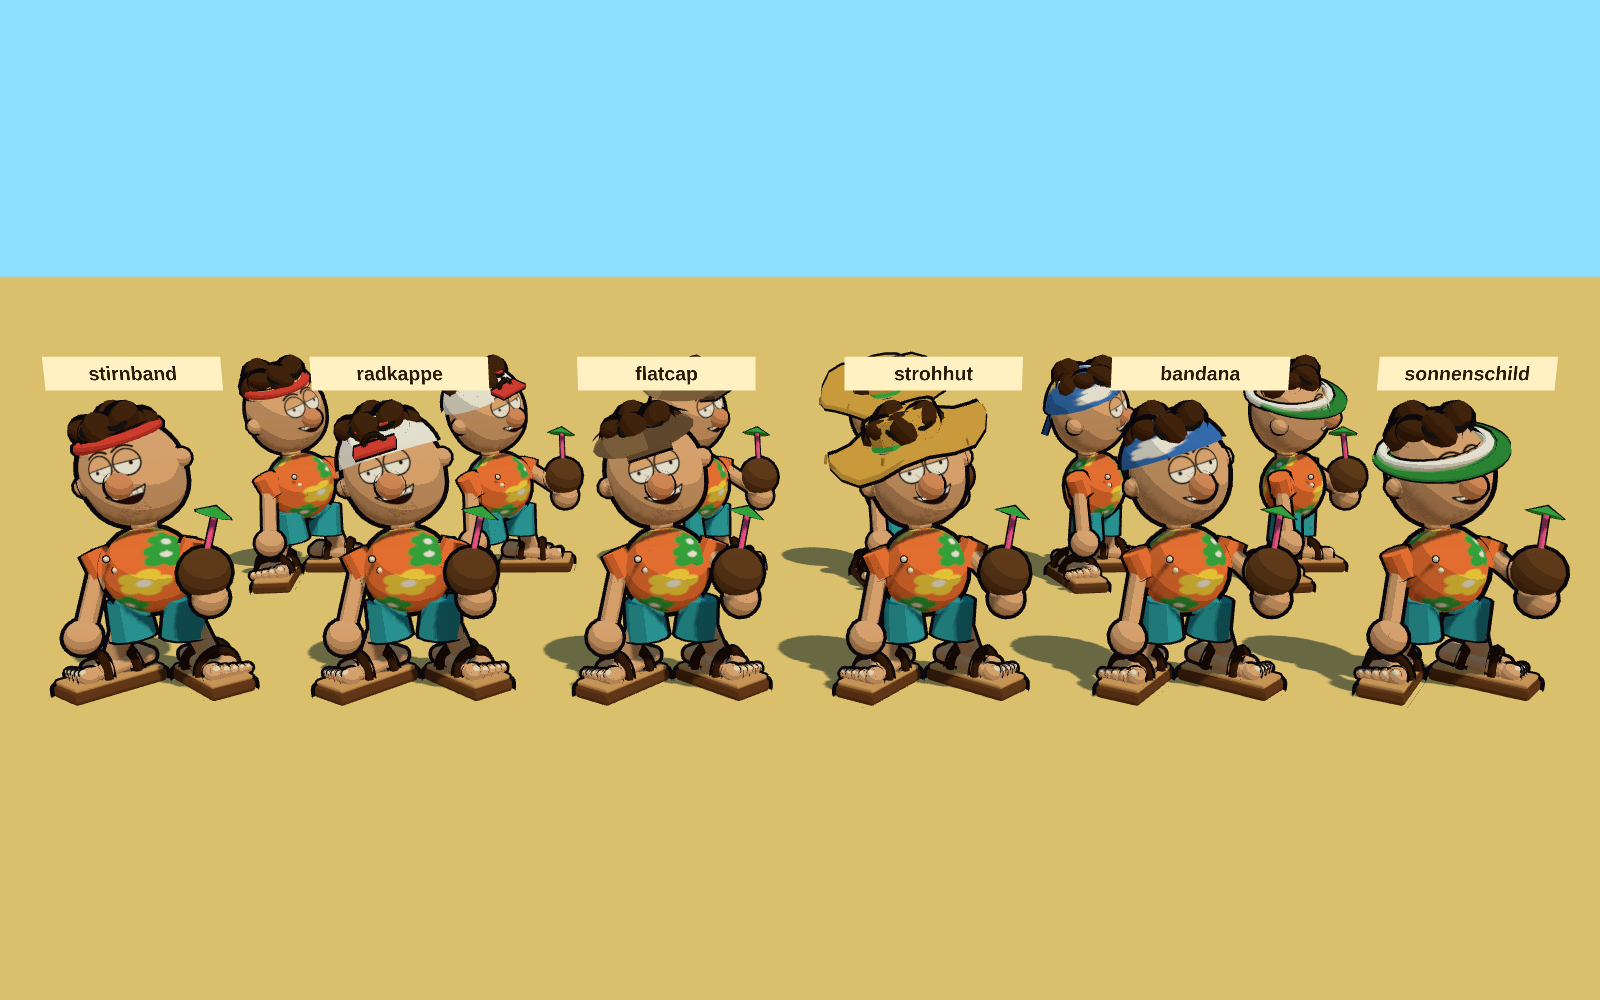
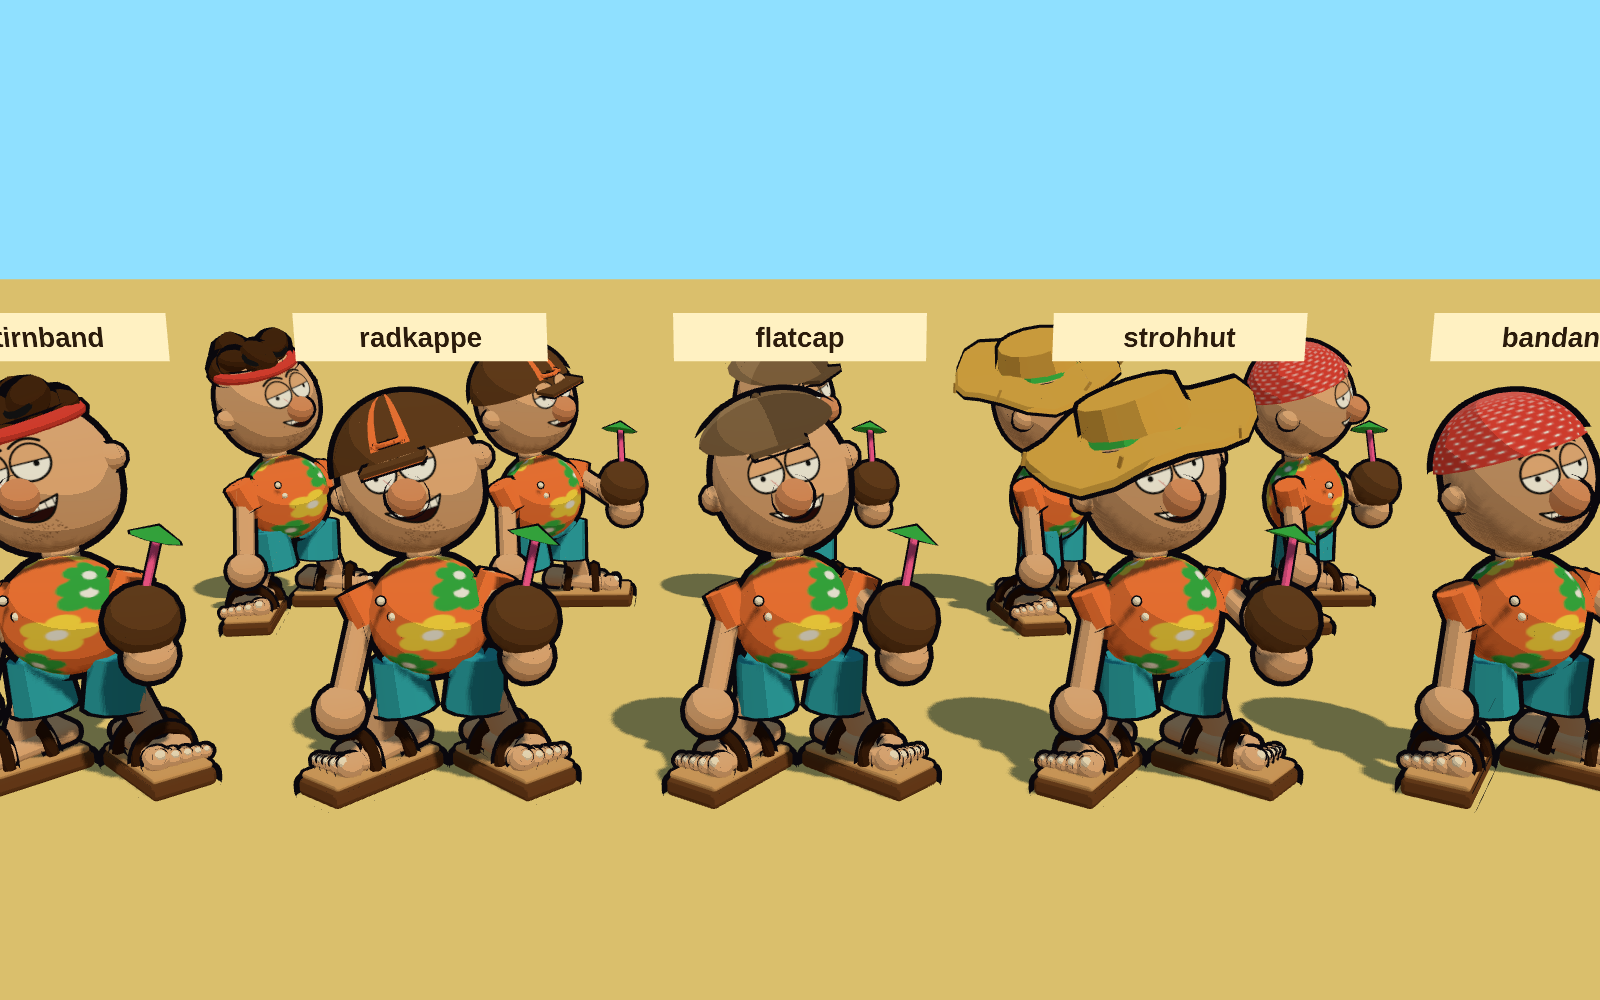
Kopfbedeckungen überarbeitet

diff --git a/spiel/js/figures.js b/spiel/js/figures.js
@@ -174,31 +174,46 @@ export function keinSchattenwurf(...objs) {
   for (const o of objs) o.traverse((m) => { if (m.isMesh) m.castShadow = false; });
 }
 
-// Kopfbedeckungen für den Spieler (Auswahl offen): stirnband (bisher) | radkappe | flatcap | strohhut | bandana | sonnenschild
-export const SCHLUFFI_KOEPFE = ['stirnband', 'radkappe', 'flatcap', 'strohhut', 'bandana', 'sonnenschild'];
-function schluffiKopfbedeckung(head, kopf, locken = []) {
+// Kopfbedeckungen für den Spieler (Auswahl offen): stirnband (bisher) | radkappe | flatcap | strohhut | bandana
+export const SCHLUFFI_KOEPFE = ['stirnband', 'radkappe', 'flatcap', 'strohhut', 'bandana'];
+function punkteTextur(bg = '#e8463a', punkt = '#ffffff') { // uni mit kleinen Punkten (Bandana)
+  const c = document.createElement('canvas'); c.width = 128; c.height = 128;
+  const ctx = c.getContext('2d'); ctx.fillStyle = bg; ctx.fillRect(0, 0, 128, 128); ctx.fillStyle = punkt;
+  for (let y = 0; y < 128; y += 16) for (let x = 0; x < 128; x += 16) { ctx.beginPath(); ctx.arc(x + 8 + (y / 16 % 2) * 8, y + 8, 2.6, 0, Math.PI * 2); ctx.fill(); }
+  const tex = new THREE.CanvasTexture(c); tex.colorSpace = THREE.SRGBColorSpace; tex.wrapS = tex.wrapT = THREE.RepeatWrapping; tex.repeat.set(3, 2);
+  return tex;
+}
+// Flacher Streifen auf einer Kugelkappe: dünnes Kugelsegment knapp über der Fläche (keine Stäbe durch den Kopf)
+function kappenStreifen(r, color, phiStart, phiLen, thetaStart = 0, thetaLen = Math.PI * 0.45) {
+  return toonMesh(new THREE.SphereGeometry(r * 1.012, 12, 6, phiStart, phiLen, thetaStart, thetaLen), color, { outline: 0, shadow: false });
+}
+function schluffiKopfbedeckung(head, kopf, locken = [], brille = []) {
   const g = new THREE.Group(); head.add(g);
-  // Unter Hüten (Kappe, Flatcap, Strohhut, Bandana) verschwinden die vorderen Locken, die übrigen rutschen auf y 0.06 und
-  // werden gestaucht: Oberkante inkl. Hülle ≈ 0.21–0.24, also unter Flatcap-Rand (0.45), Strohhut-Krempe (≥ 0.295),
-  // Bandana-/Kappenrand (0.19–0.21) — sie lugen seitlich und hinten unter dem Rand hervor, stechen aber nicht durch.
-  if (['radkappe', 'flatcap', 'strohhut', 'bandana'].includes(kopf)) {
+  // Unter Hüten verschwinden die vorderen Locken, die übrigen rutschen auf y 0.06 und werden gestaucht (Oberkante samt Hülle
+  // 0.21–0.24, unter Flatcap-Rand 0.45, Strohhut-Krempe ≥ 0.295, Kappen-/Bandana-Rand 0.19–0.21): lugen seitlich und hinten
+  // hervor. Die hochgeschobene Sonnenbrille (zwei Ringe oben auf dem Kopf) gibt es nur beim Stirnband.
+  if (kopf !== 'stirnband') {
     locken.forEach((h, i) => { if (i === 1 || i === 2) h.visible = false; else { h.position.y = 0.06; h.scale.y = 0.8; } });
+    for (const b of brille) b.visible = false;
   }
   const add = (m) => { g.add(m); return m; };
   switch (kopf) {
-    case 'radkappe': { // Fahrradmütze: knappe Kappe, kleiner Schirm, Kettenblatt-Logo vorn
-      const cap = add(toonMesh(new THREE.SphereGeometry(0.58, 16, 10, 0, Math.PI * 2, 0, Math.PI * 0.46), 0xffffff, { outline: 0.045 })); cap.position.set(0, 0.12, -0.03); cap.rotation.x = -0.12;
-      for (const s of [-1, 1]) { const streifen = toonMesh(new THREE.BoxGeometry(0.1, 0.02, 0.9), 0xe8463a, { outline: 0.012 }); streifen.position.set(s * 0.14, 0.67, -0.03); streifen.rotation.x = 0.2; add(streifen); }
-      const schirm = add(toonMesh(new THREE.BoxGeometry(0.46, 0.04, 0.24), 0xe8463a, { outline: 0.025 })); schirm.position.set(0, 0.38, 0.62); schirm.rotation.x = 0.35; // kurz, nach oben geklappt
-      const logo = add(toonMesh(new THREE.TorusGeometry(0.11, 0.025, 6, 12), 0x2b1b0b, { outline: 0.01 })); logo.position.set(0, 0.42, 0.56); logo.rotation.x = 0.3;
-      for (let i = 0; i < 5; i++) { const z = toonMesh(new THREE.BoxGeometry(0.03, 0.06, 0.02), 0x2b1b0b, { outline: 0 }); const a = i / 5 * Math.PI * 2; z.position.set(Math.cos(a) * 0.13, 0.42 + Math.sin(a) * 0.13 * Math.cos(0.3), 0.56 - Math.sin(a) * 0.13 * Math.sin(0.3)); z.rotation.z = a; add(z); } // Zähne des Kettenblatts
+    case 'radkappe': { // Fahrradmütze: braune Kappe, zwei flache orange Streifen, Schirm an der Unterkante, Kettenblatt vorn auf der Kappe
+      const cap = add(toonMesh(new THREE.SphereGeometry(0.58, 18, 12, 0, Math.PI * 2, 0, Math.PI * 0.47), 0x6b4423, { outline: 0.045 })); cap.position.set(0, 0.12, -0.03); cap.rotation.x = -0.1;
+      for (const s of [-1, 1]) { const st = kappenStreifen(0.58, 0xff7f3f, Math.PI / 2 + s * 0.22 - 0.06, 0.12, 0, Math.PI * 0.42); cap.add(st); } // Streifen von vorn nach hinten, nur auf der Fläche
+      const schirm = add(toonMesh(new THREE.BoxGeometry(0.5, 0.035, 0.26), 0x6b4423, { outline: 0.025 })); schirm.position.set(0, 0.2, 0.62); schirm.rotation.x = 0.1; // unten an der Kappe, flach nach vorn
+      const schirmUnten = add(toonMesh(new THREE.BoxGeometry(0.46, 0.012, 0.22), 0xff7f3f, { outline: 0, shadow: false })); schirmUnten.position.set(0, 0.178, 0.63); schirmUnten.rotation.x = 0.1;
+      const logo = new THREE.Group(); logo.position.set(0, 0.36, 0.5); logo.rotation.x = -0.45; add(logo); // vorn auf der Kappe, folgt der Wölbung
+      logo.add(toonMesh(new THREE.TorusGeometry(0.1, 0.022, 6, 14), 0xff7f3f, { outline: 0.01 }));
+      for (let i = 0; i < 7; i++) { const z = toonMesh(new THREE.BoxGeometry(0.03, 0.05, 0.02), 0xff7f3f, { outline: 0 }); const a = i / 7 * Math.PI * 2; z.position.set(Math.cos(a) * 0.125, Math.sin(a) * 0.125, 0); z.rotation.z = a; logo.add(z); } // Zähne
+      logo.add(toonMesh(new THREE.CylinderGeometry(0.03, 0.03, 0.03, 8), 0x2b1b0b, { outline: 0 })).rotation.x = Math.PI / 2;
       break;
     }
-    case 'flatcap': { // Schiebermütze: flacher Teller, vorn auf den Schirm gezogen, Tweed-Streifen
-      const tellerGeo = new THREE.SphereGeometry(0.66, 18, 10, 0, Math.PI * 2, 0, Math.PI * 0.36); tellerGeo.scale(1, 0.55, 1.1);
-      const teller = add(toonMesh(tellerGeo, toon(0xffffff, { map: stripeTexture(['#8a6b4a', '#6b5238', '#8a6b4a', '#a0805c'], { vertical: true }) }), { outline: 0.045 })); teller.position.set(0, 0.3, 0.02); teller.rotation.x = 0.18;
-      const schirm = add(toonMesh(new THREE.BoxGeometry(0.5, 0.05, 0.3), 0x6b5238, { outline: 0.03 })); schirm.position.set(0, 0.34, 0.66); schirm.rotation.x = -0.1;
-      const knopf = add(toonMesh(new THREE.SphereGeometry(0.04, 6, 5), 0x6b5238, { outline: 0.012 })); knopf.position.set(0, 0.66, 0);
+    case 'flatcap': { // Schiebermütze: nur minimal größer als der Kopf, flacher Teller, vorn auf den Schirm gezogen, Tweed
+      const tellerGeo = new THREE.SphereGeometry(0.59, 18, 10, 0, Math.PI * 2, 0, Math.PI * 0.4); tellerGeo.scale(1, 0.62, 1.06);
+      const teller = add(toonMesh(tellerGeo, toon(0xffffff, { map: stripeTexture(['#8a6b4a', '#6b5238', '#8a6b4a', '#a0805c'], { vertical: true }) }), { outline: 0.045 })); teller.position.set(0, 0.32, 0.0); teller.rotation.x = 0.16;
+      const schirm = add(toonMesh(new THREE.BoxGeometry(0.44, 0.04, 0.24), 0x6b5238, { outline: 0.03 })); schirm.position.set(0, 0.33, 0.6); schirm.rotation.x = -0.08;
+      const knopf = add(toonMesh(new THREE.SphereGeometry(0.035, 6, 5), 0x6b5238, { outline: 0.012 })); knopf.position.set(0, 0.69, 0);
       break;
     }
     case 'strohhut': { // zerfranster Strohhut, Krempe krumm, Band aus Gras
@@ -209,17 +224,11 @@ function schluffiKopfbedeckung(head, kopf, locken = []) {
       for (let i = 0; i < 6; i++) { const f = toonMesh(new THREE.BoxGeometry(0.03, 0.12, 0.02), 0xd9a84a, { outline: 0 }); const a = i * 1.05; f.position.set(Math.cos(a) * 0.96, 0.4 + 0.08 * Math.sin(a * 4 + 1), Math.sin(a) * 0.96 - 0.02); f.rotation.set(0.4, a, 0.3); add(f); } // Fransen
       break;
     }
-    case 'bandana': { // Kopftuch mit Knoten im Nacken, Zipfel, Hawaii-Muster wie das Hemd
+    case 'bandana': { // Kopftuch, uni rot mit kleinen weißen Punkten, Knoten im Nacken, Zipfel
       const tuchGeo = new THREE.SphereGeometry(0.6, 16, 10, 0, Math.PI * 2, 0, Math.PI * 0.44); deform(tuchGeo, (v) => { if (v.z < -0.3) v.y -= 0.1 * (-v.z - 0.3); });
-      const tuch = add(toonMesh(tuchGeo, toon(0xffffff, { map: hawaiiTexture('#3a7bd5', ['#ffe14a', '#ffffff']) }), { outline: 0.045 })); tuch.position.set(0, 0.1, -0.03); tuch.rotation.x = -0.2;
-      const knoten = add(toonMesh(new THREE.SphereGeometry(0.12, 8, 6), 0x3a7bd5, { outline: 0.025 })); knoten.position.set(0, 0.05, -0.6);
-      for (const s of [-1, 1]) { const z = toonMesh(new THREE.BoxGeometry(0.1, 0.4, 0.04), 0x3a7bd5, { outline: 0.025 }); z.position.set(s * 0.12, -0.15, -0.62); z.rotation.set(0.3, 0, s * 0.5); add(z); }
-      break;
-    }
-    case 'sonnenschild': { // Sonnenschild: Stirnband mit breitem, grün durchsichtigem Schirm, drüber die Locken
-      const band = add(toonMesh(new THREE.TorusGeometry(0.56, 0.06, 8, 24), 0xffffff, { outline: 0.03 })); band.position.set(0, 0.3, 0); band.rotation.set(Math.PI / 2 + 0.12, 0, 0.04);
-      const schirmGeo = new THREE.CylinderGeometry(0.72, 0.72, 0.03, 20, 1, false, -0.5, 1.0 + Math.PI); // Sektor nach vorn
-      const schirm = add(toonMesh(schirmGeo, toon(0x3bb84a, { transparent: true, opacity: 0.55, side: THREE.DoubleSide }), { outline: 0.02, shadow: false })); schirm.position.set(0, 0.28, 0.1); schirm.rotation.set(0.25, -Math.PI / 2, 0);
+      const tuch = add(toonMesh(tuchGeo, toon(0xffffff, { map: punkteTextur('#e8463a', '#ffffff') }), { outline: 0.045 })); tuch.position.set(0, 0.1, -0.03); tuch.rotation.x = -0.2;
+      const knoten = add(toonMesh(new THREE.SphereGeometry(0.12, 8, 6), 0xe8463a, { outline: 0.025 })); knoten.position.set(0, 0.05, -0.6);
+      for (const s of [-1, 1]) { const z = toonMesh(new THREE.BoxGeometry(0.1, 0.4, 0.04), 0xe8463a, { outline: 0.025 }); z.position.set(s * 0.12, -0.15, -0.62); z.rotation.set(0.3, 0, s * 0.5); add(z); }
       break;
     }
     default: { // stirnband (Original)
@@ -325,11 +334,12 @@ export function schluffi({ kopf = 'stirnband' } = {}) {
     h.rotation.z = a;
     head.add(h); locken.push(h);
   }
-  schluffiKopfbedeckung(head, kopf, locken);
+  const brille = [];
   for (const s of [-1, 1]) {
     const lens = toonMesh(new THREE.TorusGeometry(0.11, 0.03, 6, 12), BLACK, { outline: 0, basic: true });
-    lens.position.set(s * 0.14, 0.6, 0.3); lens.rotation.x = -0.9; head.add(lens);
+    lens.position.set(s * 0.14, 0.6, 0.3); lens.rotation.x = -0.9; head.add(lens); brille.push(lens);
   }
+  schluffiKopfbedeckung(head, kopf, locken, brille);
 
   root.userData.parts = { body, legs, arms, head, baseBodyRot: body.rotation.clone(), baseHeadRot: head.rotation.clone() };
   kopfOhneSchattenwurf(head);

diff --git a/spiel/js/props-test.js b/spiel/js/props-test.js
@@ -90,7 +90,7 @@ if (WHAT === 'feet') {
     const tex = textTexture(kopf, { bg: '#fff1c2', fg: '#2b1b0b', font: 'bold 56px sans-serif', w: 512, h: 96 });
     const label = new THREE.Mesh(new THREE.PlaneGeometry(2.0, 0.38), new THREE.MeshBasicMaterial({ map: tex })); label.position.set(x, 3.7, 1.6); scene.add(label);
   });
-  camera.position.set(0, 5.5, 17); camera.lookAt(0, 1.7, -1);
+  camera.position.set(0, 4.6, 12.5); camera.lookAt(0, 1.9, -0.8);
 } else if (WHAT === 'tableau') {
   const meer = toonMesh(new THREE.PlaneGeometry(200, 60), 0x3dd6e0, { outline: 0, shadow: false }); meer.rotation.x = -Math.PI / 2; meer.position.set(0, 0.02, -40); scene.add(meer); // Meer hinter der Hütte, Kamera schaut von Land drauf
   const h = finaleHuette(); setHuette(h, 'deine', { schild: false }); h.scale.setScalar(1.5); h.position.set(-2.5, 0, -4); h.rotation.y = 0.25; scene.add(h);
